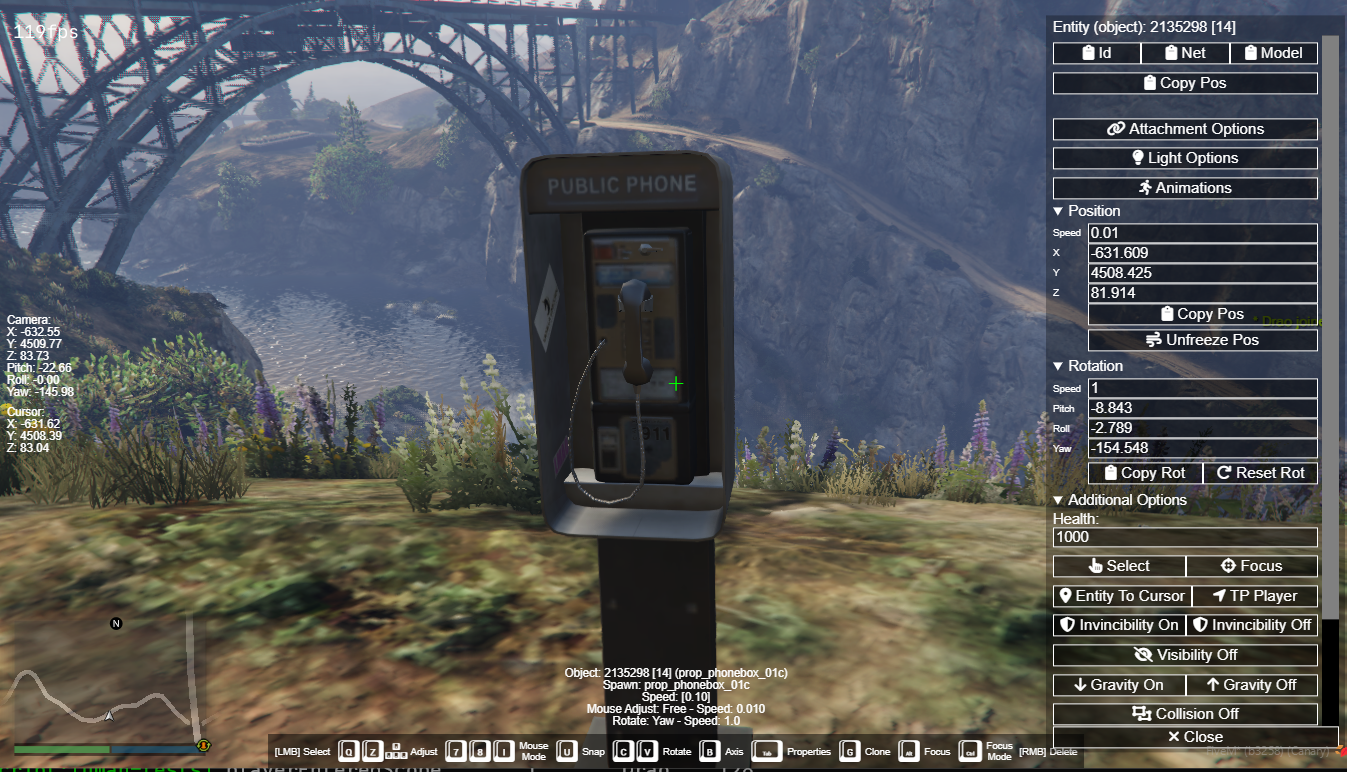
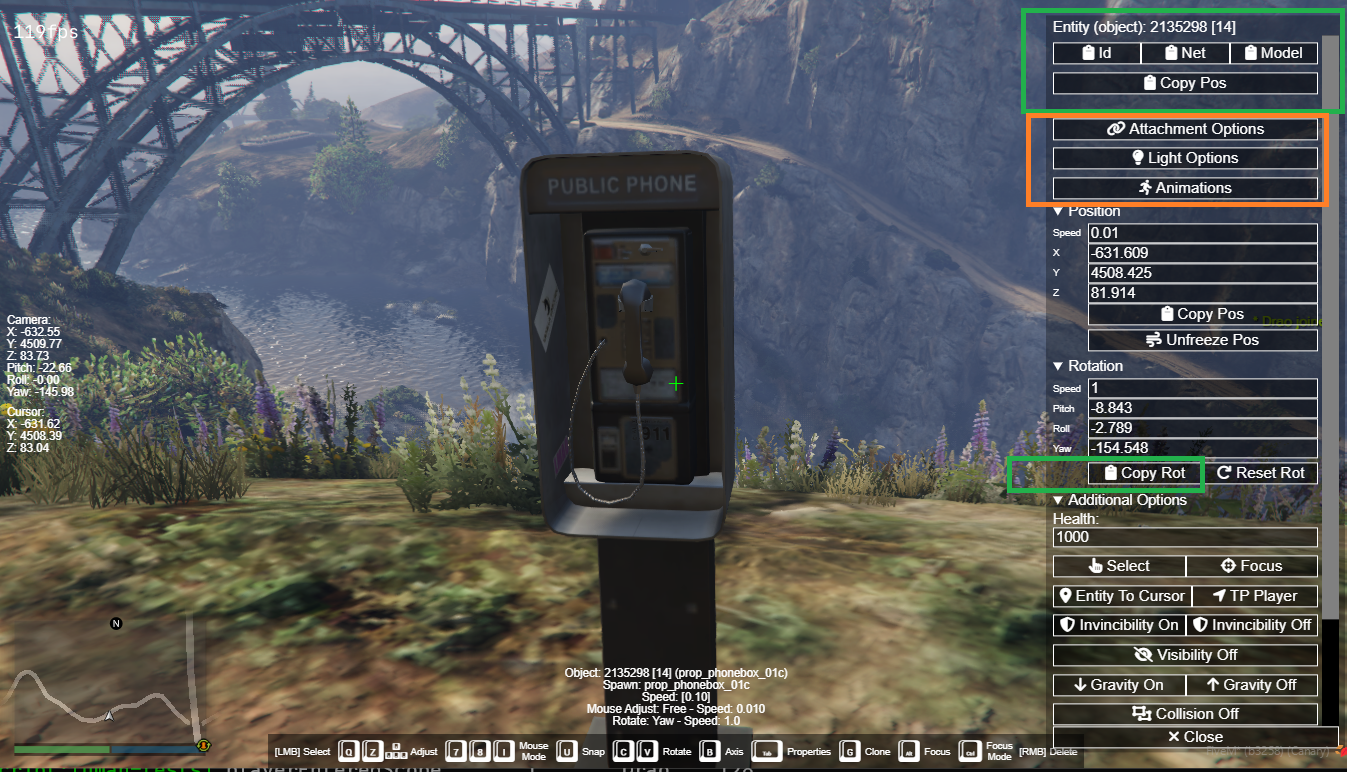
Update readme

Changed region(s): [[0.7483, 0.0, 1.0, 0.2798], [0.7483, 0.5907, 0.9042, 0.6528]]

diff --git a/README.md b/README.md
@@ -14,9 +14,15 @@ Tool for spawning, placing, and removing entities, inspired by Menyoo's Object S
 
 # Example
 
+- Copying entity details such as **Id**, **NetId**, **Model**, **Coords**, **Rotation** etc.
+- General UI/UX improvements, including better element placementto prioritize frequently used features and adding icons for each button.
 <p align="center">
   <img src="showcase/entity-properties-menu1.png" alt="Description" width=100% height=50%>
 </p>
+
+- Preview of object animations.
+- More transparent menu background to allow better visibility of the game view when the menu overlaps it.
+- Copying an animation to the clipboard will generate the coresponding code (e.g. `PlayEntityAnim` or `TaskPlayAnim`) with the selected parameters directly from the menu.
 
 <p align="center">
   <img src="showcase/animations.gif" alt="Description" width=100% height=50%>
